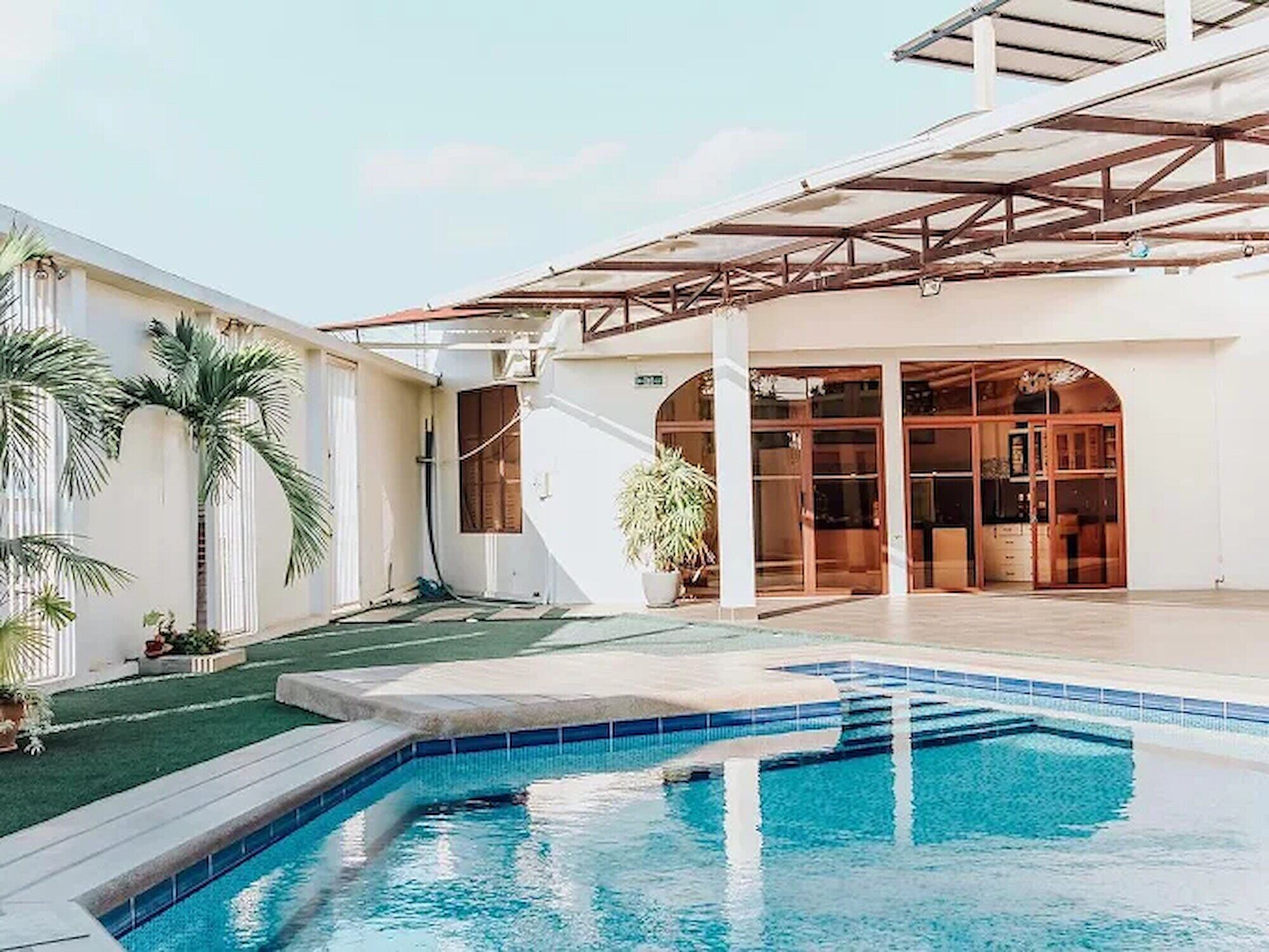
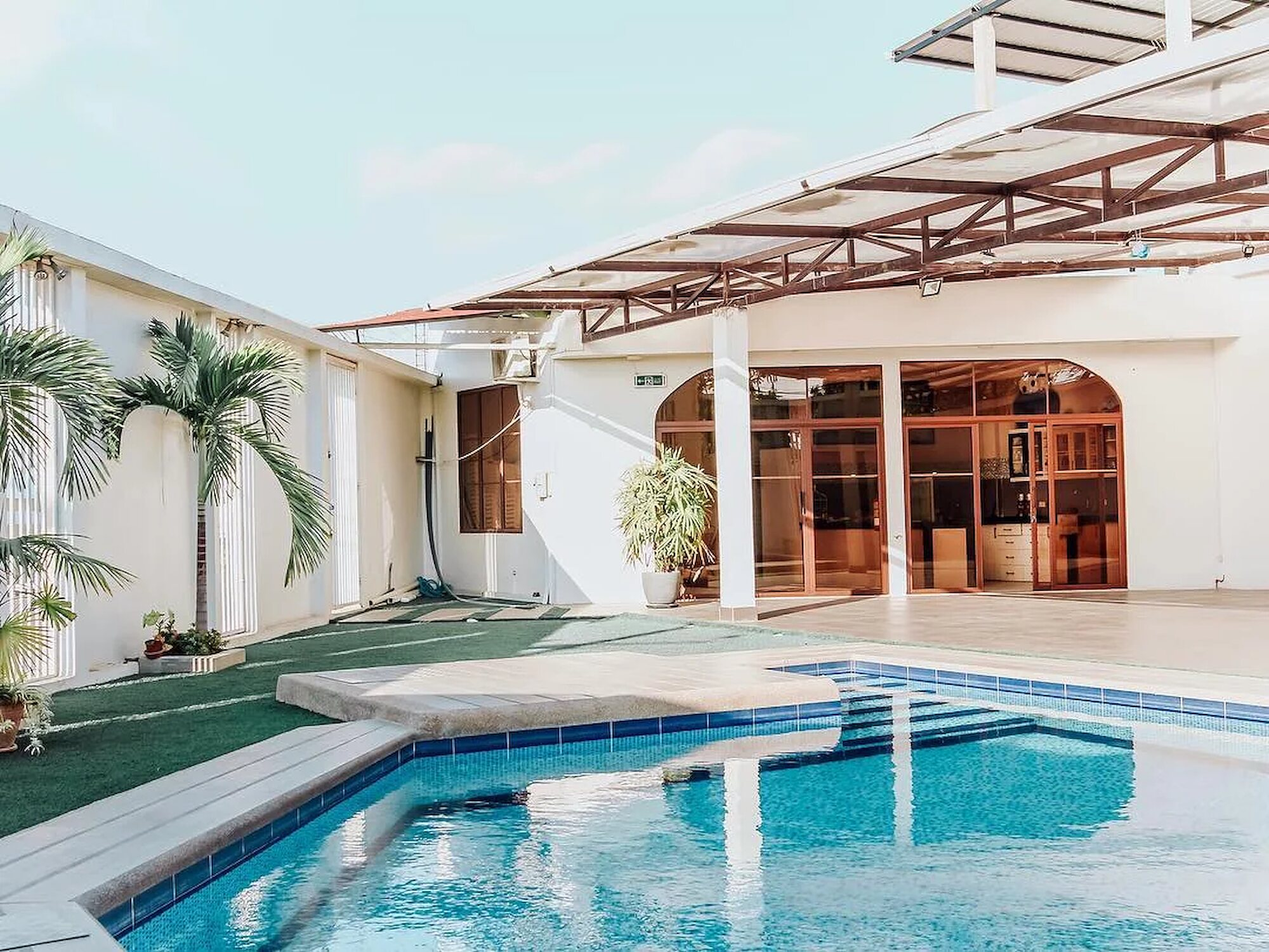
Actualiza index.html y la imagen de portada del espacio de eventos

diff --git a/index.html b/index.html
@@ -321,7 +321,9 @@
   .hero{
     position:relative;
     min-height:100vh;
-    padding:0 32px 80px;
+    /* el padding superior reserva sitio para la barra, el menu y el ticker,
+       para que el contenido no se les monte encima en pantallas bajas */
+    padding:calc(var(--tb) + 170px) 32px 80px;
     color:#fff;
     overflow:hidden;
     display:flex;flex-direction:column;
@@ -329,7 +331,10 @@
   .hero-bg{
     position:absolute;inset:0;z-index:-2;
     background:
-      linear-gradient(180deg, rgba(0,0,0,.3) 0%, rgba(0,0,0,.15) 40%, rgba(0,0,0,.75) 100%),
+      /* velo lateral: oscurece el lado donde va el texto */
+      linear-gradient(90deg, rgba(0,0,0,.52) 0%, rgba(0,0,0,.20) 52%, rgba(0,0,0,.04) 100%),
+      /* velo vertical: aclara arriba, oscurece abajo bajo el titular */
+      linear-gradient(180deg, rgba(0,0,0,.48) 0%, rgba(0,0,0,.30) 30%, rgba(0,0,0,.50) 62%, rgba(0,0,0,.88) 100%),
       url('img/portada-espacio-eventos-duran.jpg') center/cover;
   }
   .hero-bg::after{
@@ -363,6 +368,7 @@
 
   .hero-content{
     margin-top:auto;
+    padding-top:24px;
     display:grid;grid-template-columns:1fr auto;gap:60px;align-items:end;
     width:100%;
   }
@@ -466,7 +472,7 @@
 
   @media(max-width:880px){
     .ticker{top:calc(80px + var(--tb))}
-    .hero{padding:0 16px 50px}
+    .hero{padding:calc(var(--tb) + 142px) 16px 50px}
     .hero-content{grid-template-columns:1fr;gap:32px}
     .hero-meta{text-align:left}
     .hero-ctas{margin-top:24px}
